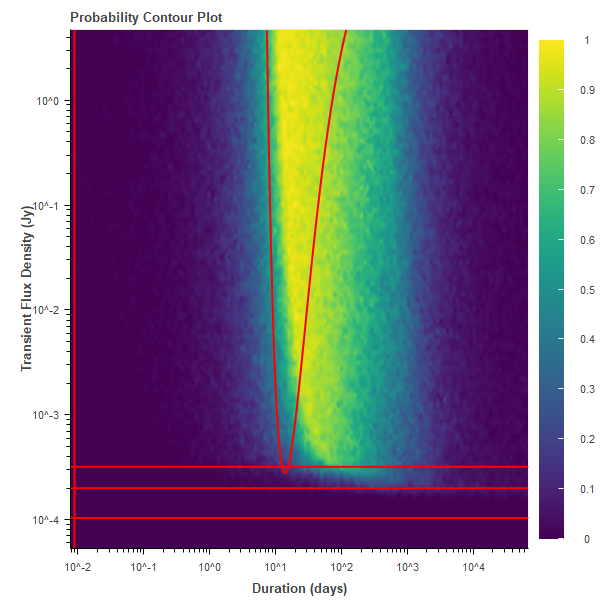
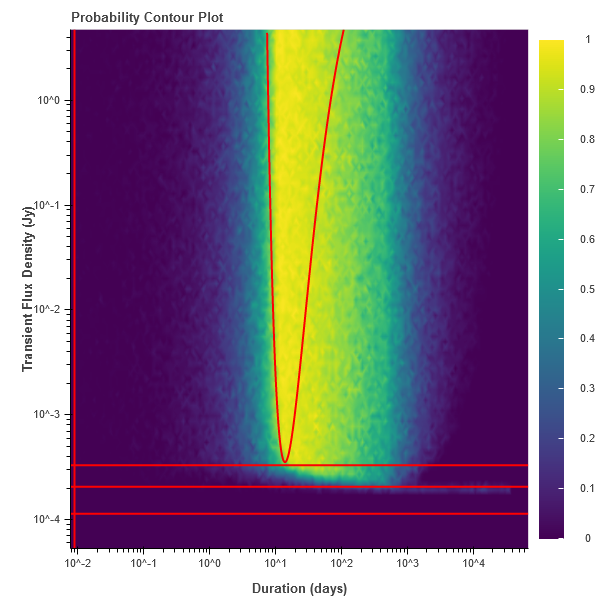
Fixed Gaussian, doc updates

diff --git a/how_it_works/how_it_works.tex b/how_it_works/how_it_works.tex
@@ -58,9 +58,11 @@ The code then parses the input supplied from the command line and the input file
 These simulated sources are then run through a function that determines whether they are detected in the observations. The idea is to iterate over the observations and in each observation look to see what sources are detected. We follow the section criteria in the following sections.
 \subsection{Edge Cases}
 The first step in determining which simulated sources are candidates. The three implemented light curve types have different approaches:
-\subsubsection{FRED}
+\subsubsection{FRED or Half-Gaussian Type 1}
 The start time of the sources must not be equal to the end of the observation.
-\subsubsection{Tophat}
+\subsubsection{Wilma}
+The transients cannot end before the observation starts.
+\subsubsection{Tophat/Parabolic/Chopped Gaussian/ERED}
 There are two conditions: the source must not start and end before or right at the start of observations and the source must not start at the end of the observation.
 \subsubsection{Gaussian}
 We do no additional conditions here since this light curve has already had sufficient conditions imposed.
@@ -70,39 +72,99 @@ We now add some randomized errors to the peak flux that we simulated. Then we in
 The flux of a FRED lightcurve is given by:
 \[f(t)=f_0e^{-t/\tau}\]
 Where $f_0$ is peak flux, $t$ is time, $\tau$ is duration. We seek to integrate over the observation time:
-\[f_{int}(t_4-t_3) = f_0\int_{t_1}^{t_2}e^{-t/\tau}dt\]
-Where $t_1$ is either the start of the transient or the start of the observation (whichever is later), $t_2$ is the end of the observation, $t_3$ is the start of the observation, and $t_4$ is the end of the observation. We have the duration of observation term on the left hand side since we are actually calculating the fluence with this integration. We calculate the integral to find:
-\[f_{int}(t_4-t_3) = f_0\tau (e^{-t_{1}/\tau}-e^{-t_2/\tau})\]
+\[f_{int}(T_{end}-T_{start}) = f_0\int_{t_{start}}^{t_{end}}e^{-t/\tau}dt\]
+\[t_{start} = \text{Max}(t_{burst}, T_{start}) - t_{burst}\]
+\[t_{end} = T_{end} - t_{burst}\]
+Where $T_{start}$ is the start  of the observation , $T_{end}$ is the end of the observation, and $t_{burst}$ is the start of the transient. We have the duration of observation term on the left hand side since we are actually calculating the fluence with this integration. We calculate the integral to find:
+\[f_{int}(T_{end}-T_{start}) = f_0\tau (e^{-t_{start}/\tau}-e^{-t_{end}/\tau})\]
 Simply solving for the integrated flux:
-\[f_{int} = f_0\tau \frac{e^{-t_{1}/\tau}-e^{-t_2/\tau}}{t_4-t_3}\]
+\[f_{int} = f_0\tau \frac{e^{-t_{start}/\tau}-e^{-t_{end}/\tau}}{T_{end}-T_{start}}\]
+\subsubsection{Wilma}
+The flux of a Wilma lightcurve is like the FRED in reverse. 
+\[f(t)=f_0e^{t/\tau}\text{, for }t\leq0\]
+We seek to integrate over the observation time:
+\[f_{int}(T_{end}-T_{start}) = f_0\int_{t_{start}}^{t_{end}}e^{t/\tau}dt\]
+\[t_{start} =  T_{start} - (t_{burst}+\tau)\]
+\[t_{end} = \text{Min}(T_{end},t_{burst}+\tau) - (t_{burst}+\tau)\]
+\[f_{int}(T_{end}-T_{start}) = f_0\tau (e^{t_{end}/\tau}-e^{t_{start}/\tau})\]
+Simply solving for the integrated flux:
+\[f_{int} = f_0\tau \frac{e^{t_{end}/\tau}-e^{t_{start}/\tau}}{T_{end}-T_{start}}\]
+\subsubsection{ERED}
+For the Exponential Rise-Exponential Decay we have:
+\[f(t)=f_0e^{t/\tau}\text{, for }t<0\]
+\[f(t)=f_0e^{-t/\tau}\text{, for }t>0\]
+We just reuse the previous two sections and take $\tau = \tau/2$. Starting with the FRED:
+\[t_{start} = \text{Max}(t_{burst}, T_{start}) - t_{burst}\]
+\[t_{end} = T_{end} - t_{burst}\]
+\[f_{int, FRED} = f_0\tau \frac{e^{-t_{start}/\tau}-e^{-t_{end}/\tau}}{T_{end}-T_{start}}\]
+Now the Wilma:
+\[t_{start} =  T_{start} - (t_{burst}+\tau)\]
+\[t_{end} = \text{Min}(T_{end},t_{burst}+\tau) - (t_{burst}+\tau)\]
+\[f_{int, Wilma} = f_0\tau \frac{e^{t_{end}/\tau}-e^{t_{start}/\tau}}{T_{end}-T_{start}}\]
+\[f_{int} = f_{int, FRED} + f_{int, Wilma}\]
 \subsubsection{Tophat}
 For this type of light curve, the flux is:
 \[f(t) = f_0\]
 Therefore we once again start by calculating the fluence:
-\[f_{int} (t_4-t_3) = f_0 (t_5-t_1)\]
-Where $t_1$ is either the start of the transient or the start of the observation (whichever is later), $t_5$ is either the end of the observation or the end of the transient (whichever comes first), $t_3$ is the start of the observation, and $t_4$ is the end of the observation.
-\[f_{int}  = f_0 \frac{t_5-t_1}{t_4-t_3}\]
+\[f_{int} (T_{end}-T_{start}) = f_0 (t_{end}-t_{start})\]
+\[t_{start} =  \text{Max}(T_{start},t_{burst}) - t_{burst}\]
+\[t_{end} = \text{Min}(T_{end},t_{burst}+\tau) - t_{burst}\]
+\[f_{int}  = f_0 \frac{t_{end}-t_{start}}{T_{end}-T_{start}}\]
+\subsubsection{Parabolic}
+For this type of light curve the flux is:
+\[f(t) = -\frac{f_0}{(\tau/2)^2}(t-\tau/2.0)^2 + f_0\]
+We start by calculating the fluence:
+\[f_{int}(T_{end}-T_{start}) = f_0(t_{end} - t_{start}) - \frac{f_0}{3(\tau/2)^2}[(t_{end}-\tau/2)^3 - (t_{start}- \tau/2)^3]\]
+\[t_{start} =  \text{Max}(T_{start},t_{burst}) - t_{burst}\]
+\[t_{end} = \text{Min}(T_{end},t_{burst}+\tau) - t_{burst}\]
+Therefore, we have:
+\[f_{int} = f_0\frac{t_{end} - t_{start}}{T_{end}-T_{start}} - \frac{f_0}{3(\tau/2)^2(T_{end}-T_{start})}[(t_{end}-\tau/2)^3 - (t_{start}- \tau/2)^3]\]
 \subsubsection{Gaussian}
-For the Gaussian light curve the flux is given by\footnote{We choose to divide $\tau$ by 10 for the following reason: the sensitivity limit of the observations acts as a start time for the transient. At this start time we know that $t=t_7$ and $f(t)=S_obs$. If we take the largest possible peak flux and the typical sensitivity we have: $S_{obs} = f_0  \exp[-\frac{(t_7-(t_7+\frac{\tau}{2}))^2}{2(\frac{\tau}{x})^2}]$. We can take the natural log and solve for x and we get $x\approx 10$. We can use this for all transients since the contributed flux beyond this limit will be very little.}:
-\[f(t) = f_0  \exp[-\frac{(t-(t_7+\frac{\tau}{2}))^2}{2(\frac{\tau}{10})^2}]\]
-Where $t_7$ is the start of the transient as defined in the simulation step above. Note the typical Gaussian used in probability:
+For the Gaussian light curve we have a flux of:
+\[f(t) = f_0  \exp[-\frac{(t-(t_{burst}+\frac{\tau}{2}))^2}{2(\frac{\tau}{x})^2}]\]
+In this formulation, $x$ is the number that determines the standard deviation from the duration of the transient. The duration is a tricky concept for a function that is never truly reaches zero; therefore, it is defined instead by the point at which the flux rises above the sensitivity of the observation. We calculate this by setting the flux equal to the sensitivity of the observation and setting the time equal to $t_{burst}$:
+\[S_{obs} = f_0 \exp[-\frac{(t_{burst}-(t_{burst}+\frac{\tau}{2}))^2}{2(\frac{\tau}{x})^2}]\]
+\[S_{obs} = f_0 \exp[-\frac{(\frac{\tau}{2})^2}{2(\frac{\tau}{x})^2}]\]
+Simplifying:
+\[S_{obs} = f_0 \exp[-\frac{x^2}{8}]\]
+Solve for $x$:
+\[x=\sqrt{-8\ln(\frac{S_{obs}}{f_0})}\text{ if }f_0>S_{obs}\]
+If $f_0<S_{obs}$, then the transient will not be detected. (This is handled in the code by setting $x=1$ and letting it get rejected later).
+
+Now, note the typical Gaussian used in probability:
 \[ \frac{1}{\sqrt{2\pi\sigma^2}}\exp[-\frac{(x-\mu)^2}{2\sigma^2}]\]
-The differences between the two come from a few physical conditions: Firstly, the flux is defined such that at the mean the flux is exactly the peak flux. Second, the ``duration'' (a slightly more complicated concept for this light curve) is defined to span across six standard deviations, or put another way, the standard deviation is one sixth of the simulated duration. Therefore from this definition we decide where to place the mean. A logical choice is to be the simulated beginning plus half the duration. As done previously we can now integrate to calculate fluence and subsequently the integrated flux. 
-\[f_{int}(t_4-t_3) = f_0 \int_{t_3}^{t_4} \exp[-\frac{(t-(t_7+\frac{\tau}{2}))^2}{2(\frac{\tau}{10})^2}]dt\]
-$t_3$ is the start of the observation and $t_4$ is the end of the observation. Integrating this equation gives:
-\[f_{int}(t_4-t_3) = f_0 \frac{\tau}{10}\sqrt{\frac{\pi}{2}}(\text{erf}(\frac{t_4-(t_7-\frac{\tau}{2})}{\sqrt{2}\frac{\tau}{10}})-\text{erf}(\frac{t_3-(t_7-\frac{\tau}{2})}{\sqrt{2}\frac{\tau}{10}}))\]
+The differences between the Gaussian light curve and the regular Gaussian come from a few physical conditions: Firstly, the flux is defined such that at the mean the flux is exactly the peak flux. Second, the ``duration'' (a slightly more complicated concept for this light curve) is defined based on the sensitivity of the observation and the duration of the source as shown above. Therefore from this definition we decide where to place the mean. A logical choice is to be the simulated beginning plus half the duration. 
+
+As done previously we can now integrate to calculate fluence and subsequently the integrated flux. 
+\[f_{int}(T_{end}-T_{start}) = f_0 \int_{T_{start}}^{T_{end}} \exp[-\frac{(t-(t_{burst}+\frac{\tau}{2}))^2}{2(\frac{\tau}{x})^2}]dt\]
+$T_{start}$ is the start of the observation and $T_{end}$ is the end of the observation. Integrating this equation gives:
+\[f_{int}(T_{end}-T_{start}) = f_0 \frac{\tau}{x}\sqrt{\frac{\pi}{2}}(\text{erf}(\frac{T_{end}-(t_{burst}-\frac{\tau}{2})}{\sqrt{2}\frac{\tau}{x}})-\text{erf}(\frac{T_{start}-(t_{burst}-\frac{\tau}{2})}{\sqrt{2}\frac{\tau}{x}}))\]
 Compare this with the Gaussian cumulative distribution function:
 \[F_{cdf}=\frac{1}{2}(1+\text{erf}(\frac{x-\mu}{\sqrt{2}\sigma}))\]
 Therefore, to make them look similar:
 \[2F_{cdf}=(1+\text{erf}(\frac{x-\mu}{\sqrt{2}\sigma}))\]
 Use our variables:
-\[2\Delta F_{cdf}=(1+\text{erf}(\frac{t_4-(t_7-\frac{\tau}{2})}{\sqrt{2}\frac{\tau}{10}}))-(1+\text{erf}(\frac{t_3-(t_7-\frac{\tau}{2})}{\sqrt{2}\frac{\tau}{10}}))\]
+\[2\Delta F_{cdf}=(1+\text{erf}(\frac{T_{end}-(t_{burst}-\frac{\tau}{2})}{\sqrt{2}\frac{\tau}{x}}))-(1+\text{erf}(\frac{T_{start}-(t_{burst}-\frac{\tau}{2})}{\sqrt{2}\frac{\tau}{x}}))\]
 Simplify:
-\[2\Delta F_{cdf}=(\text{erf}(\frac{t_4-(t_7-\frac{\tau}{2})}{\sqrt{2}\frac{\tau}{10}}) - \text{erf}(\frac{t_3-(t_7-\frac{\tau}{2})}{\sqrt{2}\frac{\tau}{10}}))\]
+\[2\Delta F_{cdf}=(\text{erf}(\frac{T_{end}-(t_{burst}-\frac{\tau}{2})}{\sqrt{2}\frac{\tau}{x}}) - \text{erf}(\frac{T_{start}-(t_{burst}-\frac{\tau}{2})}{\sqrt{2}\frac{\tau}{x}}))\]
 Therefore we can write the integrated flux in terms of this cumulative distribution function:
-\[f_{int}(t_4-t_3) = f_0 \frac{\tau}{10}\sqrt{\frac{\pi}{2}}2\Delta F_{CDF}\]
+\[f_{int}(T_{end}-T_{start}) = f_0 \frac{\tau}{x}\sqrt{\frac{\pi}{2}}2\Delta F_{CDF}\]
 Simplify and solve for integrated flux:
-\[f_{int} = f_0 \frac{\tau}{10(t_4-t_3)}\sqrt{2\pi}\Delta F_{CDF}\]
+\[f_{int} = f_0 \frac{\tau}{x(T_{end}-T_{start})}\sqrt{2\pi}\Delta F_{CDF}\]
+\subsubsection{Chopped Gaussian}
+For the Chopped Gaussian, we are looking at a Gaussian light curve, but only between a certain number of standard deviations of each light curve. Let us label this chopping parameter $c$.
+Therefore we just have the Gaussian light curve:
+\[f(t) = f_0  \exp[-\frac{(t-(t_{burst}+\frac{\tau}{2}))^2}{2(\frac{\tau}{c})^2}]\]
+With the integrated flux:
+\[f_{int} = f_0 \frac{\tau}{c(T_{end}-T_{start})}\sqrt{2\pi}\Delta F_{CDF}\]
+or also:
+\[f_{int} = \frac{f_0}{T_{end}-T_{start}} \frac{\tau}{c}\sqrt{\frac{\pi}{2}}(\text{erf}(\frac{T_{end}-(t_{burst}-\frac{\tau}{2})}{\sqrt{2}\frac{\tau}{c}})-\text{erf}(\frac{T_{start}-(t_{burst}-\frac{\tau}{2})}{\sqrt{2}\frac{\tau}{c}}))\]
+\subsubsection{Half Gaussian Type 1}
+For this light curve we consider a light curve that starts with the peak flux and falls off as a Gaussian. In order to implement this light curve we again take the Gaussian and modify it:
+\[f(t) = f_0  \exp[-\frac{(t-t_{burst})^2}{2(\frac{\tau}{x})^2}]\text{ for }t>t_{burst}\]
+Therefore the integrated flux:
+\[f_{int} = \frac{f_0}{T_{end}-T_{start}} \frac{2\tau}{x}\sqrt{\frac{\pi}{2}}(\text{erf}(\frac{T_{end}-t_{burst}}{\sqrt{2}\frac{2\tau}{x}})-\text{erf}(\frac{\text{Max}(T_{start},t_{burst})-t_{burst}}{\sqrt{2}\frac{2\tau}{x}}))\]
+Note we changed the standard deviation to be $2\tau/x$ in order to account for only having half of the gaussian. Also, we changed the mean to be at the start of the transient and changed the start of the integration be at either the start of the observation or the start of the transient. Whichever is later.
 \subsection{Unique Detections}
 The next step is to ensure that each transient that is detected is marked as a transient multiple times. After all of the loops over the observations, the list of transients is run through a function that marks which detections are unique and only the unique detections are kept.
 
@@ -131,23 +193,23 @@ The duration of the first observation is plotted as a vertical line for each kin
 We start be establishing a limit that should determine a boundary between almost certain detections and less certain detections:
 \[f_{int} = S_{obs}\]
 Therefore, we can use the previously calculated formula for integrated flux:
-\[f_0\tau \frac{e^{-t_{8}/\tau}-e^{-t_{9}/\tau}}{t_4-t_3} = S_{obs}\]
+\[f_0\tau \frac{e^{-t_{8}/\tau}-e^{-t_{9}/\tau}}{T_{end}-T_{start}} = S_{obs}\]
 Now the only difficult part is determining what $t_8$ and $t_9$ are. Consider a bright transient that might fall into one of two different scenarios:
 \begin{itemize}
 	\item It is bright enough to almost be detected from the beginning of the first observation until the last observation \begin{itemize}
-		\item $t_8$ is the time of the end of observations, $t_{end}$; minus the start of the first observation, $t_{start}$; minus the duration of an observation, $(t_4-t_3)$; plus the duration, $\tau$
+		\item $t_8$ is the time of the end of observations, $t_{end}$; minus the start of the first observation, $t_{start}$; minus the duration of an observation, $(T_{end}-T_{start})$; plus the duration, $\tau$
 		\item $t_9$ is the time of the end of observations,  $t_{end}$; minus the start of the first observation, $t_{start}$; plus the duration
 		\end{itemize}
 	\item It is bright enough to be detected from the start of observations, but short enough to perhaps fall in the gap before the next observation\begin{itemize}
-		\item $t_8$ is the duration of a gap, $\tau_{gap}$; plus the duration of a observation, $(t_4-t_3)$
-		\item $t_9$ is the duration of a gap, $\tau_{gap}$; plus the duration of a observation, $(t_4-t_3)$; plus the duration of another observation, $(t_4-t_3)$
+		\item $t_8$ is the duration of a gap, $\tau_{gap}$; plus the duration of a observation, $(T_{end}-T_{start})$
+		\item $t_9$ is the duration of a gap, $\tau_{gap}$; plus the duration of a observation, $(T_{end}-T_{start})$; plus the duration of another observation, $(T_{end}-T_{start})$
 	\end{itemize} 
 	\end{itemize}
 
 In the first scenario we have:
-\[f_0(\tau) = S_{obs}\frac{\tau}{t_4-t_3}[\exp(\frac{-(t_{\text{end}}-t_{\text{start}}-(t_4-t_3)+ \tau )}{ \tau})-\exp(\frac{-(t_{\text{end}} - t_{\text{start}} + \tau)}{\tau})]^{-1}  \]
+\[f_0(\tau) = S_{obs}\frac{\tau}{T_{end}-T_{start}}[\exp(\frac{-(t_{\text{end}}-t_{\text{start}}-(T_{end}-T_{start})+ \tau )}{ \tau})-\exp(\frac{-(t_{\text{end}} - t_{\text{start}} + \tau)}{\tau})]^{-1}  \]
 In the second scenario we have:
-\[f_0(\tau) = S_{obs}\frac{\tau}{t_4-t_3}[\exp(\frac{-(\tau_{gap} + (t_4-t_3))}{ \tau})-\exp(\frac{-(\tau_{gap} + 2(t_4-t_3))}{\tau})]^{-1}\]
+\[f_0(\tau) = S_{obs}\frac{\tau}{T_{end}-T_{start}}[\exp(\frac{-(\tau_{gap} + (T_{end}-T_{start}))}{ \tau})-\exp(\frac{-(\tau_{gap} + 2(T_{end}-T_{start}))}{\tau})]^{-1}\]
 
 \begin{figure}[H] 
 	\begin{center}
@@ -156,6 +218,8 @@ In the second scenario we have:
 		\label{FRED}
 	\end{center}
 \end{figure}
+\subsubsection{Wilma}
+\subsubsection{ERED}
 \subsubsection{Tophat}
 One of the lines plotted is the longest duration that a transient could have and still fall into a gap in the observation intervals. This corresponds to the length of time just after the first observation and just before the last observation. The other line is the longest possible duration a source could have before being detected as a constant source. This corresponds to the duration from the beginning of the first observation until the end of the last observation.
 
@@ -167,30 +231,32 @@ One of the lines plotted is the longest duration that a transient could have and
 		\label{tophat}
 	\end{center}
 \end{figure}
+\subsubsection{Parabolic}
 \subsubsection{Gaussian}
 Once again we enforce a limit that guides us to limiting cases:
 \[f_{int} = S_{obs}\]
  First, we use the equation for integrated flux we had previously:
-\[f_0 \frac{\tau}{10(t_4-t_3)}\sqrt{2\pi}\Delta F_{CDF} =  S_{obs}\]
+\[x_{max}=\sqrt{-8\ln(\frac{S_{obs}}{f_{max}})}\text{ if }f_0>S_{obs}\]
+\[f_0 \frac{\tau}{x_{max}(T_{end}-T_{start})}\sqrt{2\pi}\Delta F_{CDF} =  S_{obs}\]
 Inserting the variables:
-\[f_0 \frac{\tau}{10(t_4 - t_3)}\sqrt{2\pi}(F_{CDF}(t_8; \tau/2,\tau/10) -F_{CDF}(t_9; \tau/2, \tau/10)) =  S_{obs}\]
+\[f_0 \frac{\tau}{x_{max}(T_{end} - T_{start})}\sqrt{2\pi}(F_{CDF}(t_8; \tau/2,\tau/10) -F_{CDF}(t_9; \tau/2, \tau/10)) =  S_{obs}\]
 
 We repeat the same scenarios as outlined above in the FRED case:
 \begin{itemize}
 	\item It is bright enough to almost be detected from the beginning of the first observation until the last observation \begin{itemize}
-		\item $t_8$ is the time of the end of observations, $t_{end}$; minus the start of the first observation, $t_{start}$; minus the duration of an observation, $(t_4-t_3)$; plus the duration, $\tau$
+		\item $t_8$ is the time of the end of observations, $t_{end}$; minus the start of the first observation, $t_{start}$; minus the duration of an observation, $(T_{end}-T_{start})$; plus the duration, $\tau$
 		\item $t_9$ is the time of the end of observations,  $t_{end}$; minus the start of the first observation, $t_{start}$; plus the duration
 	\end{itemize}
 	\item It is bright enough to be detected from the start of observations, but short enough to perhaps fall in the gap before the next observation\begin{itemize}
-		\item $t_8$ is the duration of a gap, $\tau_{gap}$; plus the duration of a observation, $(t_4-t_3)$
-		\item $t_9$ is the duration of a gap, $\tau_{gap}$; plus the duration of a observation, $(t_4-t_3)$; plus the duration of another observation, $(t_4-t_3)$
+		\item $t_8$ is the duration of a gap, $\tau_{gap}$; plus the duration of a observation, $(T_{end}-T_{start})$
+		\item $t_9$ is the duration of a gap, $\tau_{gap}$; plus the duration of a observation, $(T_{end}-T_{start})$; plus the duration of another observation, $(T_{end}-T_{start})$
 	\end{itemize} 
 \end{itemize}
 For the first case we have:
-\[f_0  =  S_{obs}\frac{10(t_4 - t_3)}{\sqrt{2\pi}\tau}(F_{CDF}(t_{\text{end}}-t_{\text{start}}-(t_4-t_3)+ \tau; \tau/2,\tau/10) -F_{CDF}(t_{\text{end}} - t_{\text{start}} + \tau; \tau/2, \tau/10))^{-1}\]
+\[f_0  =  S_{obs}\frac{x_{max}(T_{end} - T_{start})}{\sqrt{2\pi}\tau}(F_{CDF}(t_{\text{end}}-t_{\text{start}}-(T_{end}-T_{start})+ \tau; \tau/2,\tau/x_{max}) -F_{CDF}(t_{\text{end}} - t_{\text{start}} + \tau; \tau/2, \tau/x_{max}))^{-1}\]
 For the second case we have:
-\[f_0  =  S_{obs}\frac{10(t_4 - t_3)}{\sqrt{2\pi}\tau}(F_{CDF}(\tau_{gap} + (t_4-t_3); \tau/2,\tau/10) -F_{CDF}(t_{\text{end}} - t_{\tau_{gap}} + 2(t_4-t_3); \tau/2, \tau/10))^{-1}\]
-In the figure below, we see only part of the line from the second case. It seems that there may be some additional conditions that are not imposed.
+\[f_0  =  S_{obs}\frac{x_{max}(T_{end} - T_{start})}{\sqrt{2\pi}\tau}(F_{CDF}(\tau_{gap} + (T_{end}-T_{start}); \tau/2,\tau/x_{max}) -F_{CDF}(t_{\text{end}} - t_{\tau_{gap}} + 2(T_{end}-T_{start}); \tau/2, \tau/x_{max}))^{-1}\]
+In the figure below, we see only part of the line from the second case, but it matches nicely. 
 \begin{figure}[H] 
 	\begin{center}
 		\includegraphics[width=4in]{output_gaussian_ProbContour.png}
@@ -198,4 +264,6 @@ In the figure below, we see only part of the line from the second case. It seems
 		\label{gaussian}
 	\end{center}
 \end{figure}
+\subsubsection{Chopped Gaussian}
+\subsubsection{Half Gaussian Type 1}
 \end{document}

diff --git a/python3/FINAL_VERSION_SIMULATIONS.py b/python3/FINAL_VERSION_SIMULATIONS.py
@@ -61,6 +61,7 @@ def initialise():
     extra_threshold = np.float(params['INITIAL PARAMETERS']['extra_threshold']) 
     file = params['INITIAL PARAMETERS']['file']   
     lightcurvetype = params['INITIAL PARAMETERS']['lightcurvetype']  
+    gaussiancutoff = np.float(params['INITIAL PARAMETERS']['gaussiancutoff'])
 # Observational Parameters, if simulated
 
     nobs = int(params['SIM']['nobs'])
@@ -70,16 +71,16 @@ def initialise():
     obsdurations = np.float(params['SIM']['obsdurations'])
 
     config = get_configuration() # parses arguments, see above
-    if lightcurvetype != 'tophat' and lightcurvetype != 'fred' and lightcurvetype != 'gaussian' and lightcurvetype != 'wilma' and lightcurvetype != 'ered' and lightcurvetype != 'halfgaussian1' and lightcurvetype != 'parabolic':
-        print('Type of transient not recognised.\nUse tophat, fred, gaussian, wilma, ered, or parabolic, halfgaussian1.')
+    if lightcurvetype != 'tophat' and lightcurvetype != 'fred' and lightcurvetype != 'gaussian' and lightcurvetype != 'wilma' and lightcurvetype != 'ered' and lightcurvetype != 'halfgaussian1' and lightcurvetype != 'parabolic' and lightcurvetype != 'choppedgaussian':
+        print('Type of transient not recognised.\nUse tophat, fred, gaussian, wilma, ered, parabolic, halfgaussian1, or choppedgaussian.')
         exit()
     file = file + '_' + lightcurvetype
 
     obs = observing_strategy(config.observations, det_threshold, nobs, obssens, obssig, obsinterval, obsdurations)
     start_time = obs[0][0] #recall that obs has the form: start, duration, sensitivity. Therefore this is the start of the very first observation.
     end_time = obs[-1][0] + obs[-1][1] #The time that the last observation started + its duration. end_time-start_time = duration of survey
-    simulated = generate_sources(n_sources, file, start_time, end_time, fl_min, fl_max, dmin, dmax,  config.keep, lightcurvetype) # two functions down
-    det = detect_bursts(obs, file, flux_err, det_threshold, extra_threshold, simulated, lightcurvetype, config.keep)
+    simulated = generate_sources(n_sources, file, start_time, end_time, fl_min, fl_max, dmin, dmax,  config.keep, lightcurvetype,gaussiancutoff) # two functions down
+    det = detect_bursts(obs, file, flux_err, det_threshold, extra_threshold, simulated, lightcurvetype, gaussiancutoff, config.keep)
     stat = statistics(file, fl_min, fl_max, dmin, dmax, det, simulated, config.keep)
     plots(obs, file, extra_threshold, det_threshold, flux_err, lightcurvetype, stat)
 
@@ -107,7 +108,7 @@ def observing_strategy(obs_setup, det_threshold, nobs, obssens, obssig, obsinter
 
     return obs
 
-def generate_sources(n_sources, file, start_time, end_time, fl_min, fl_max, dmin, dmax, dump_intermediate, lightcurve):
+def generate_sources(n_sources, file, start_time, end_time, fl_min, fl_max, dmin, dmax, dump_intermediate, lightcurve,gaussiancutoff):
     bursts = np.zeros((n_sources, 3), dtype=np.float64)
     #The following two functions pick a random number that is evenly spaced logarithmically
     if(lightcurve == "ered"):
@@ -115,12 +116,15 @@ def generate_sources(n_sources, file, start_time, end_time, fl_min, fl_max, dmin
         bursts[:,2] = np.absolute(np.power(10, np.random.uniform(np.log10(fl_min), np.log10(fl_max), n_sources))) # random number for flux
         # bursts[:,1] = np.absolute(np.power(10, np.random.uniform(np.log10(dmin), np.log10(dmax), n_sources))) # random number for duration
         # bursts[:,2] = np.absolute(np.power(10, np.random.uniform(np.log10(fl_min), np.log10(fl_max), n_sources))) # random number for flux
+    elif(lightcurve == "gaussian"):
+        bursts[:,1] = np.absolute(np.power(10, np.random.uniform(np.log10(dmin), np.log10(dmax), n_sources)))/2.0 # random number for duration
+        bursts[:,2] = np.absolute(np.power(10, np.random.uniform(np.log10(fl_min), np.log10(fl_max), n_sources))) # random number for flux
     else:
         bursts[:,1] = np.absolute(np.power(10, np.random.uniform(np.log10(dmin), np.log10(dmax), n_sources))) # random number for duration
         bursts[:,2] = np.absolute(np.power(10, np.random.uniform(np.log10(fl_min), np.log10(fl_max), n_sources))) # random number for flux
     if(lightcurve == "gaussian"):  
         bursts[:,0] = np.random.uniform(start_time - bursts[:,1], end_time + bursts[:,1], n_sources)
-    elif((lightcurve == "tophat") or (lightcurve == "fred") or (lightcurve == "halfgaussian1") or (lightcurve == "parabolic")):
+    elif((lightcurve == "tophat") or (lightcurve == "fred") or (lightcurve == "halfgaussian1") or (lightcurve == "parabolic") or(lightcurve == "choppedgaussian")):
         bursts[:,0] = np.random.uniform(start_time - bursts[:,1], end_time, n_sources) # randomize the start times based partly on the durations above
     elif(lightcurve == "wilma"):
         bursts[:,0] = np.random.uniform(start_time - bursts[:,1], end_time + bursts[:,1], n_sources) # randomize the start times based partly on the durations above
@@ -135,7 +139,7 @@ def generate_sources(n_sources, file, start_time, end_time, fl_min, fl_max, dmin
             print("Written Simulated Sources")
     return bursts
 
-def detect_bursts(obs, file, flux_err, det_threshold, extra_threshold, sources, lightcurve, dump_intermediate):
+def detect_bursts(obs, file, flux_err, det_threshold, extra_threshold, sources, lightcurve, gaussiancutoff, dump_intermediate):
     single_detection = np.array([],dtype=np.uint32)
     extra_detection = np.array([],dtype=np.uint32)
 
@@ -151,7 +155,7 @@ def detect_bursts(obs, file, flux_err, det_threshold, extra_threshold, sources, 
         elif lightcurve == 'wilma':
             ## Transients do not end before the observation starts 
             single_candidate = np.where(sources[:,0] + sources[:,1] > start_obs)[0]
-        elif lightcurve == 'tophat' or lightcurve == 'parabolic':
+        elif lightcurve == 'tophat' or lightcurve == 'parabolic' or lightcurve == 'choppedgaussian':
             ## Transients end after observation starts and start before observation ends
             single_candidate = np.where((sources[:,0] + sources[:,1] > start_obs) & (sources[:,0] < end_obs))[0] # Take all of the locations that qualify as a candidate. The zero index is a wierd python workaround
         elif lightcurve == 'gaussian':
@@ -248,12 +252,60 @@ def detect_bursts(obs, file, flux_err, det_threshold, extra_threshold, sources, 
             f2 = np.multiply(f1,tau)
             flux_int_wilma = f2
             flux_int = flux_int_fred + flux_int_wilma
-         
-        elif lightcurve == 'gaussian':
+        
+        elif lightcurve == 'choppedgaussian':
             tend = np.minimum(t_burst + tau, end_obs) - t_burst
-            flux_int = np.sqrt(2.0*np.pi)*(tau/(10.0*(end_obs-start_obs)))*np.multiply(F0, norm.cdf(end_obs , loc = t_burst + (tau/2.0), scale = tau/10.0)-norm.cdf(start_obs , loc = t_burst + (tau/2.0), scale = tau/10.0))
+            doublepi = 2.0*np.pi
+            sqpi = np.sqrt(doublepi)
+            scaletau = tau/gaussiancutoff
+            dimensionless = scaletau/(end_obs - start_obs)
+            fpre1 = F0 * dimensionless
+            fpre2 = fpre1 * sqpi
+            cdf2 = norm.cdf(tend , loc = (tau/2.0), scale = tau/gaussiancutoff)
+            cdf1 = norm.cdf(tstart , loc =  (tau/2.0), scale = tau/gaussiancutoff)
+            diffcdf = cdf2 - cdf1 
+            flux_int = fpre2*diffcdf
+        elif lightcurve == 'gaussian':
+            sensrat = sensitivity/F0
+            natlog = np.log(sensrat)
+            doublenatlog = -2.0*natlog
+            doublenatlog[doublenatlog<=0] = 0.5**2
+            sqnatlog = np.sqrt(doublenatlog)
+            x = 2.0*sqnatlog
+            # print(x)
+            tend = np.minimum(t_burst + tau, end_obs) - t_burst
+            doublepi = 2.0*np.pi
+            sqpi = np.sqrt(doublepi)
+            scaletau = tau/x
+            dimensionless = scaletau/(end_obs - start_obs)
+            fpre1 = F0 * dimensionless
+            fpre2 = fpre1 * sqpi
+            cdf2 = norm.cdf(end_obs , loc = t_burst + (tau/2.0), scale = tau/x)
+            cdf1 = norm.cdf(start_obs , loc = t_burst + (tau/2.0), scale = tau/x)
+            diffcdf = cdf2 - cdf1 
+            flux_int = fpre2*diffcdf
+            # flux_int = np.sqrt(2.0*np.pi)*(tau/(gaussiancutoff*(end_obs-start_obs)))*np.multiply(F0, norm.cdf(end_obs , loc = t_burst + (tau/2.0), scale = tau/gaussiancutoff)-norm.cdf(start_obs , loc = t_burst + (tau/2.0), scale = tau/gaussiancutoff))
             # flux_int = np.multiply(F0,(-1.0/2.0)*erf((3.0*(-2.0*end_obs+2.0*t_burst+tau))/(np.sqrt(2)*tau))+(1.0/2.0)*erf((3.0*(-2.0*start_obs+2.0*t_burst+tau))/(np.sqrt(2)*tau)))
         elif lightcurve == 'halfgaussian1':
+            sensrat = sensitivity/F0
+            natlog = np.log(sensrat)
+            doublenatlog = -2.0*natlog
+            doublenatlog[doublenatlog<=0] = 0.5**2
+            sqnatlog = np.sqrt(doublenatlog)
+            x = 2.0*sqnatlog
+            # print(x)
+            tend = np.minimum(t_burst + tau, end_obs) - t_burst
+            doublepi = 2.0*np.pi
+            sqpi = np.sqrt(doublepi)
+            scaletau = tau/x
+            dimensionless = scaletau/(end_obs - start_obs)
+            fpre1 = F0 * dimensionless
+            fpre2 = fpre1 * sqpi
+            cdf2 = norm.cdf(end_obs , loc = t_burst , scale = 2.0*tau/x)
+            cdf1 = norm.cdf(np.maximum(t_burst, start_obs) , loc = t_burst , scale = 2.0*tau/x)
+            diffcdf = cdf2 - cdf1 
+            flux_int = fpre2*diffcdf
+            
             flux_int = np.sqrt(2.0*np.pi)*(tau/(5.0*(end_obs-start_obs)))*np.multiply(F0, norm.cdf(end_obs , loc = t_burst, scale = tau/5.0)-norm.cdf(np.maximum(t_burst, start_obs) , loc = t_burst, scale = tau/5.0))
             # flux_int = np.multiply(F0,(-1.0/2.0)*erf((3.0*(-2.0*end_obs+2.0*t_burst+tau))/(np.sqrt(2)*tau))+(1.0/2.0)*erf((3.0*(-2.0*start_obs+2.0*t_burst+tau))/(np.sqrt(2)*tau)))
         candidates = single_candidate[(flux_int > sensitivity)]
@@ -417,7 +469,7 @@ def plots(obs, file, extra_threshold, det_threshold, flux_err, lightcurve, toplo
         maxdist_y = np.array([],dtype=np.float64)
         for x in xs:
             try:
-                durmax_y = np.append(durmax_y, ((1. + flux_err) * sens_last * day1_obs  ) / (gausscdf(np.power(10,2.0*x),durmax + np.power(10,x)) - gausscdf(np.power(10,2.0*x), durmax - day1_obs + np.power(10,x))))
+                durmax_y = np.append(durmax_y, ((1. + flux_err) * sens_last * day1_obs  ) / (gausscdf(np.power(10,x*2.0),durmax + np.power(10,x)) - gausscdf(np.power(10,2.0*x), durmax - day1_obs + np.power(10,x))))
             except:
                 durmax_y = np.append(durmax_y, np.inf)
             try:
